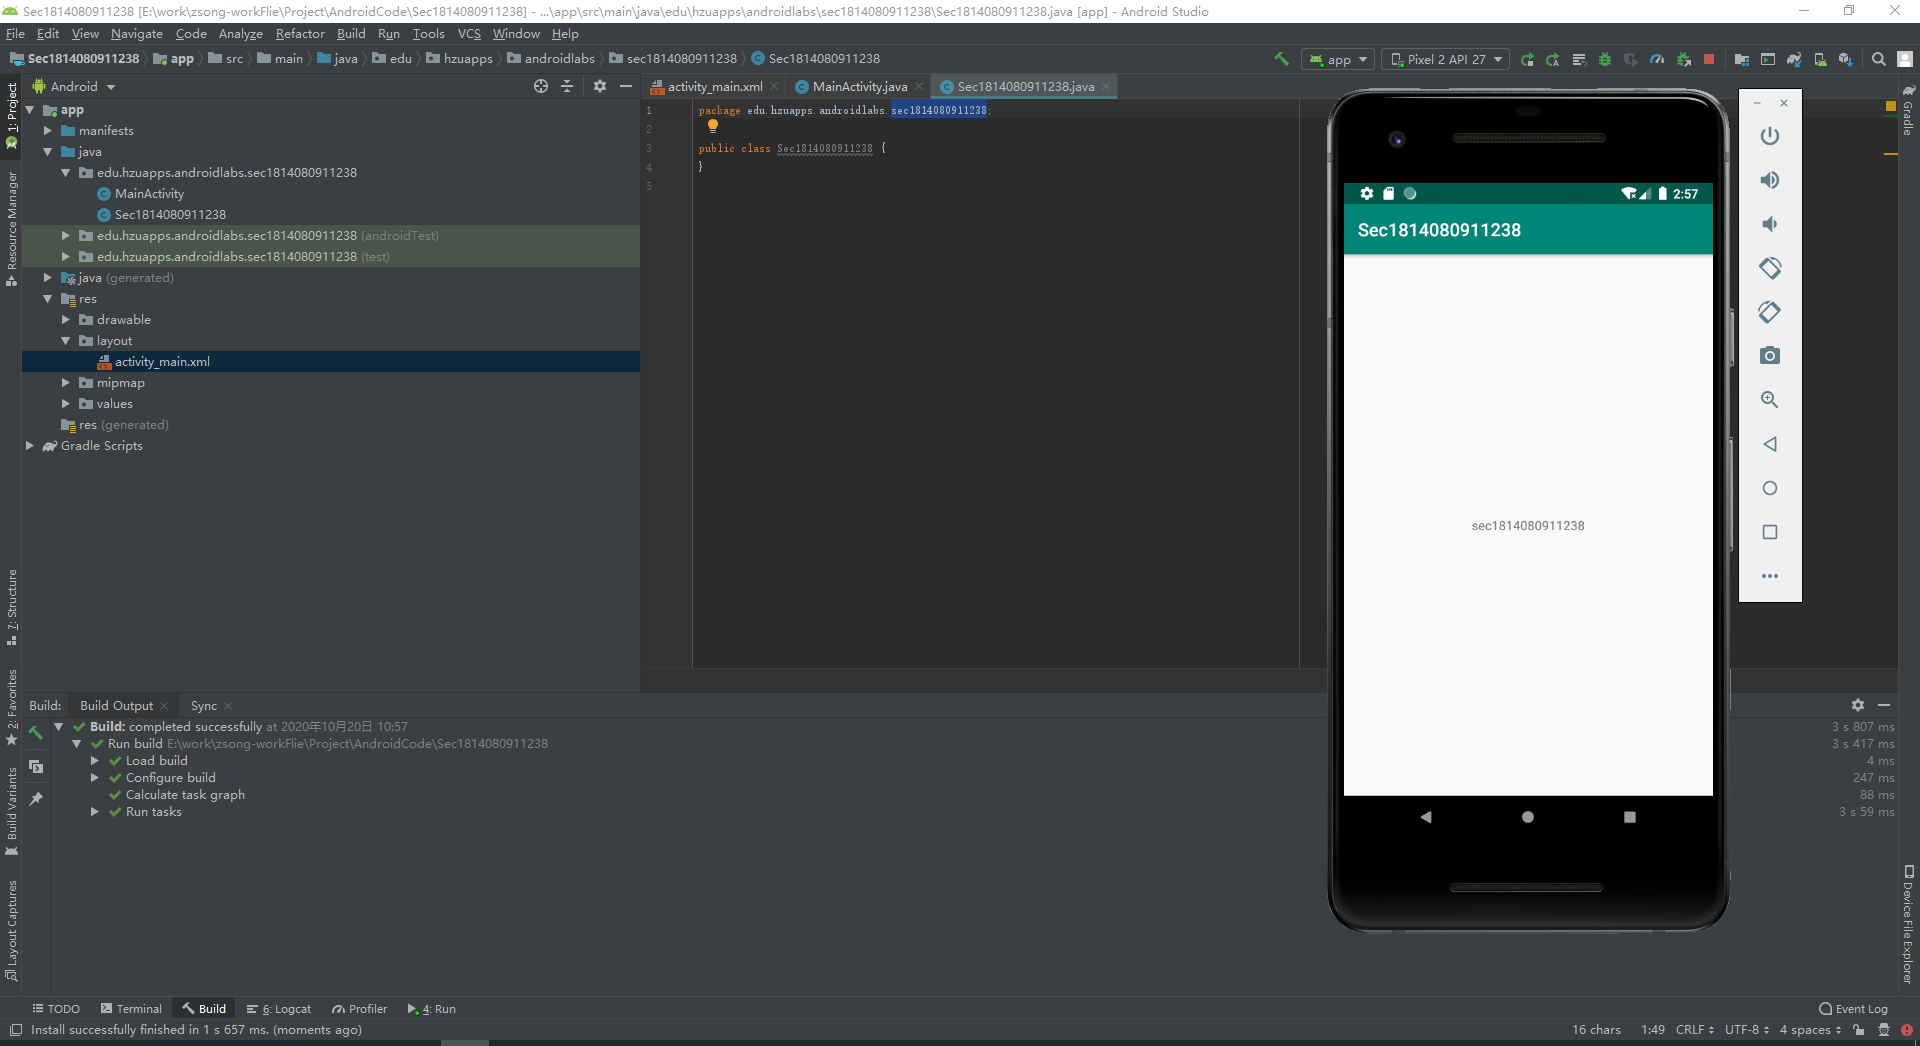
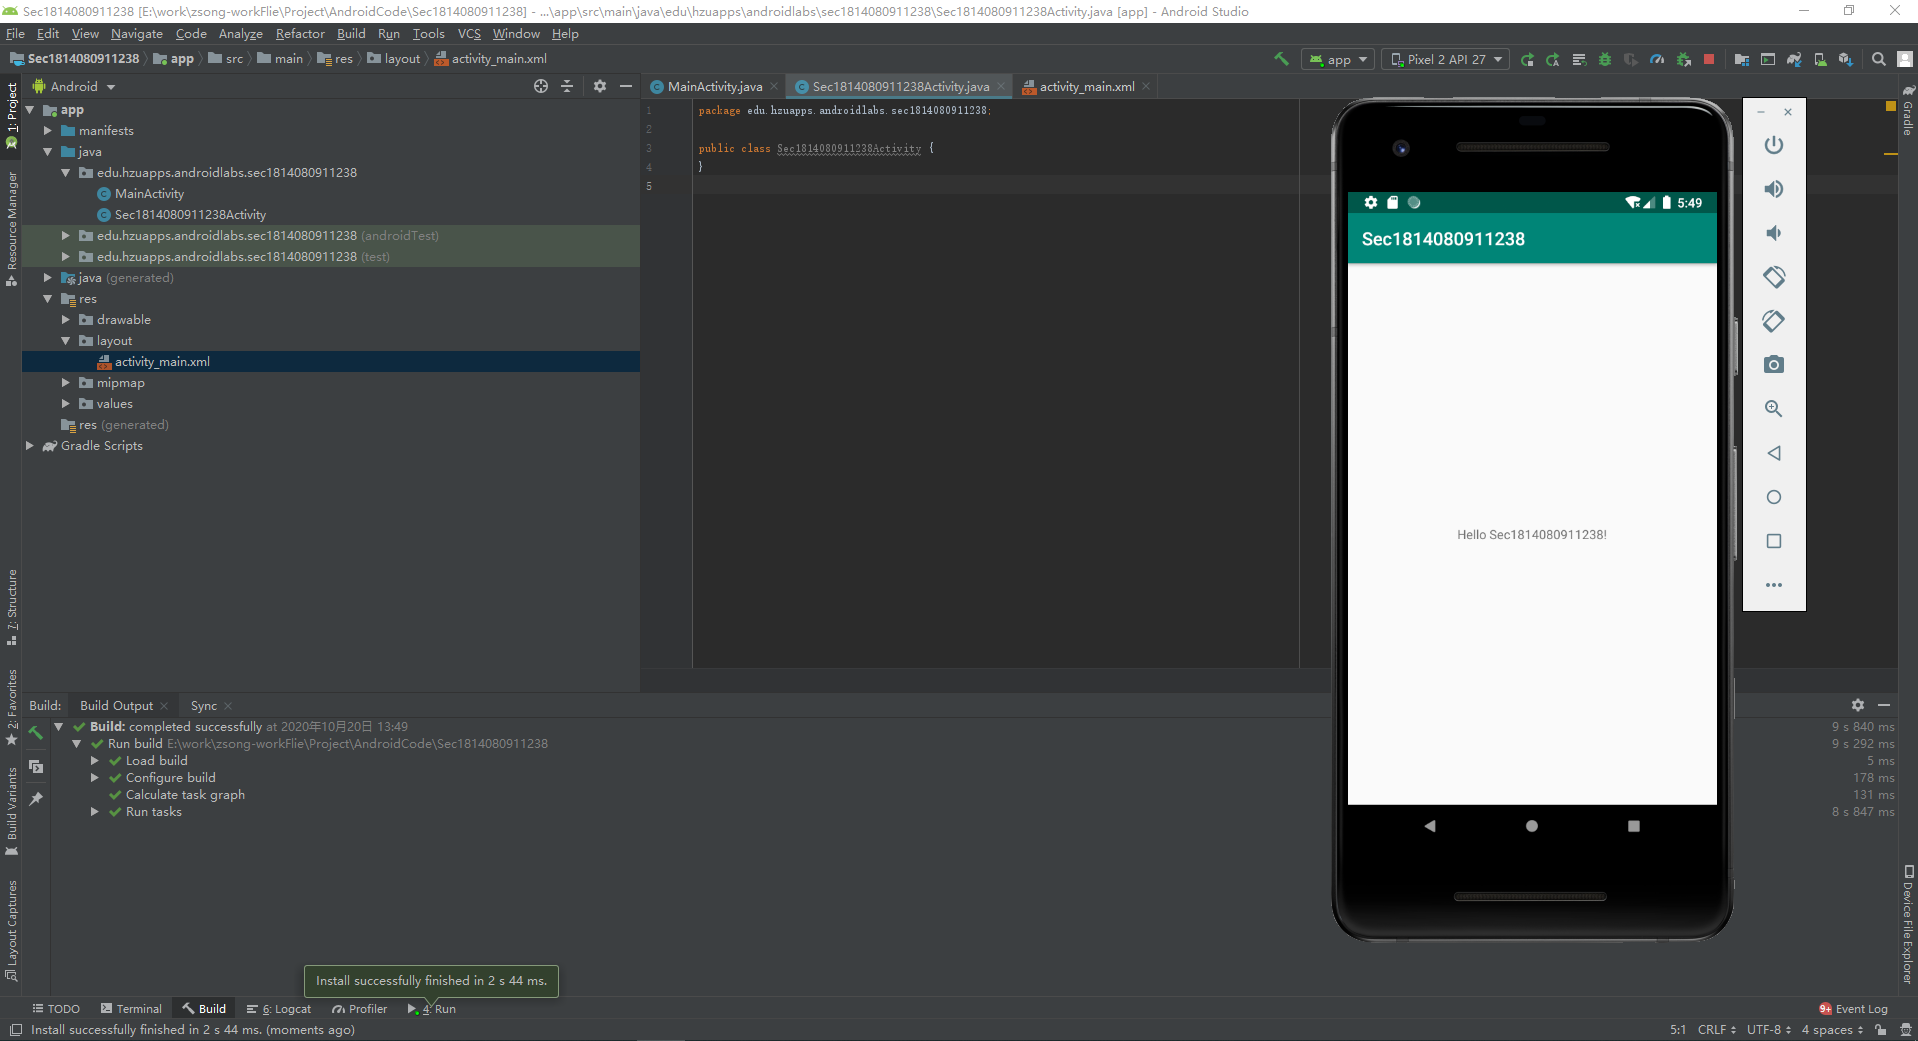
#1 #613 第一次实验

diff --git a/students/sec1814080911238/Sec1814080911238Activity.java b/students/sec1814080911238/Sec1814080911238Activity.java
@@ -1,4 +1,4 @@
 package edu.hzuapps.androidlabs.sec1814080911238;
 
-public class Sec1814080911238 {
+public class Sec1814080911238Activity {
 }
